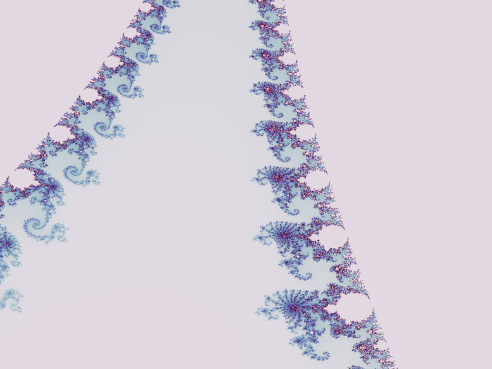
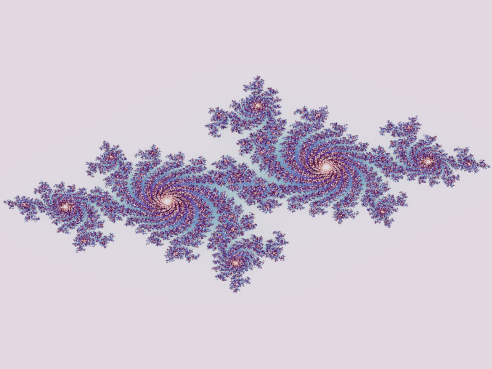
Mandelbrot

diff --git a/mandelbrot_cizici.py b/mandelbrot_cizici.py
@@ -3,11 +3,11 @@ import matplotlib.pyplot as plt
 
 
 MAX_ITERASYON = 500
-JULIA_SABITI =complex (-0.7, 0.27015)
-def julia_hesapla(z):
-    c=JULIA_SABITI
+
+def fraktal_hesapla_kup(c):
+    z= 0 + 0j
     for n in range(MAX_ITERASYON):
-        z = z**2 + c 
+        z = z**3 + c 
         if abs(z) > 2.0:
             return n 
     return MAX_ITERASYON
@@ -30,10 +30,10 @@ for x in range(GENISLIK):
         
         reel_kisim = REEL_MIN + (x / GENISLIK) * (REEL_MAX - REEL_MIN)
         sanal_kisim = SANAL_MIN + (y / YUKSEKLIK) * (SANAL_MAX - SANAL_MIN)
-        z_baslangic=complex(reel_kisim, sanal_kisim)
+        c =complex(reel_kisim, sanal_kisim)
         
         
-        iterasyon_sayisi = julia_hesapla(z_baslangic)
+        iterasyon_sayisi = fraktal_hesapla_kup(c)
         
         
         resim_dizisi[y, x] = iterasyon_sayisi
